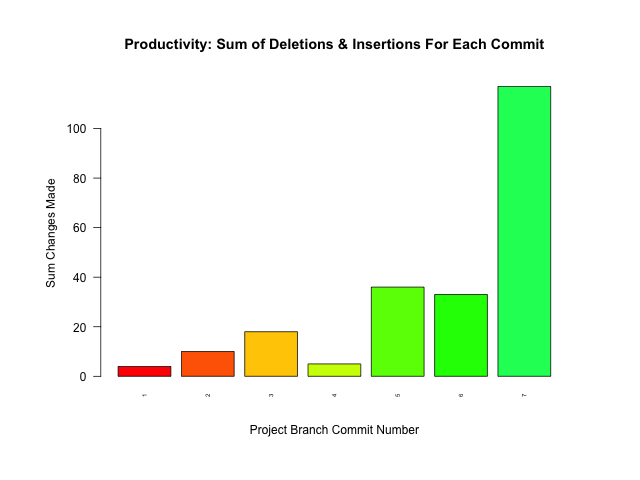
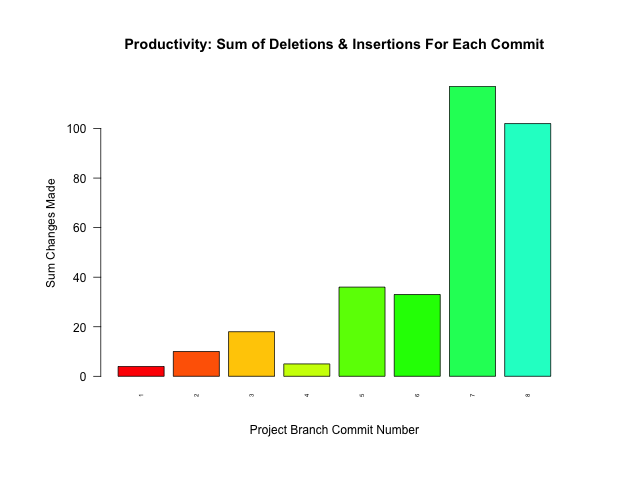
COMMIT #156

Changed region(s): [[0.3438, 0.1562, 0.875, 0.8125], [0.25, 0.7188, 0.2812, 0.8125]]

diff --git a/README.md b/README.md
@@ -17,8 +17,8 @@ ProjectName::BranchName.data
 
 Project Name | Last Updated | # Commits | # Branches | Branches Merged
 :---|:---:|:---:|:---:|:---:
-[learn_some_C.Plus.Plus](https://github.com/pierremigeon/learn_some_C.Plus.Plus)                    |  2023-05-03  |  7    |  1  |  100%  (1/1)
-[commit_tracker](https://github.com/pierremigeon/commit_tracker)                                    |  2023-05-02  |  154  |  1  |  100%  (1/1)
+[learn_some_C.Plus.Plus](https://github.com/pierremigeon/learn_some_C.Plus.Plus)                    |  2023-05-04  |  8    |  1  |  100%  (1/1)
+[commit_tracker](https://github.com/pierremigeon/commit_tracker)                                    |  2023-05-03  |  155  |  1  |  100%  (1/1)
 [minishell](https://github.com/pierremigeon/minishell)                                              |  2023-05-01  |  73   |  8  |  75%   (6/8)
 [FASTQ_examiner](https://github.com/pierremigeon/FASTQ_examiner)                                    |  2023-04-24  |  68   |  3  |  67%   (2/3)
 [ft_printf](https://github.com/pierremigeon/ft_printf)                                              |  2023-01-27  |  36   |  2  |  100%  (2/2)
